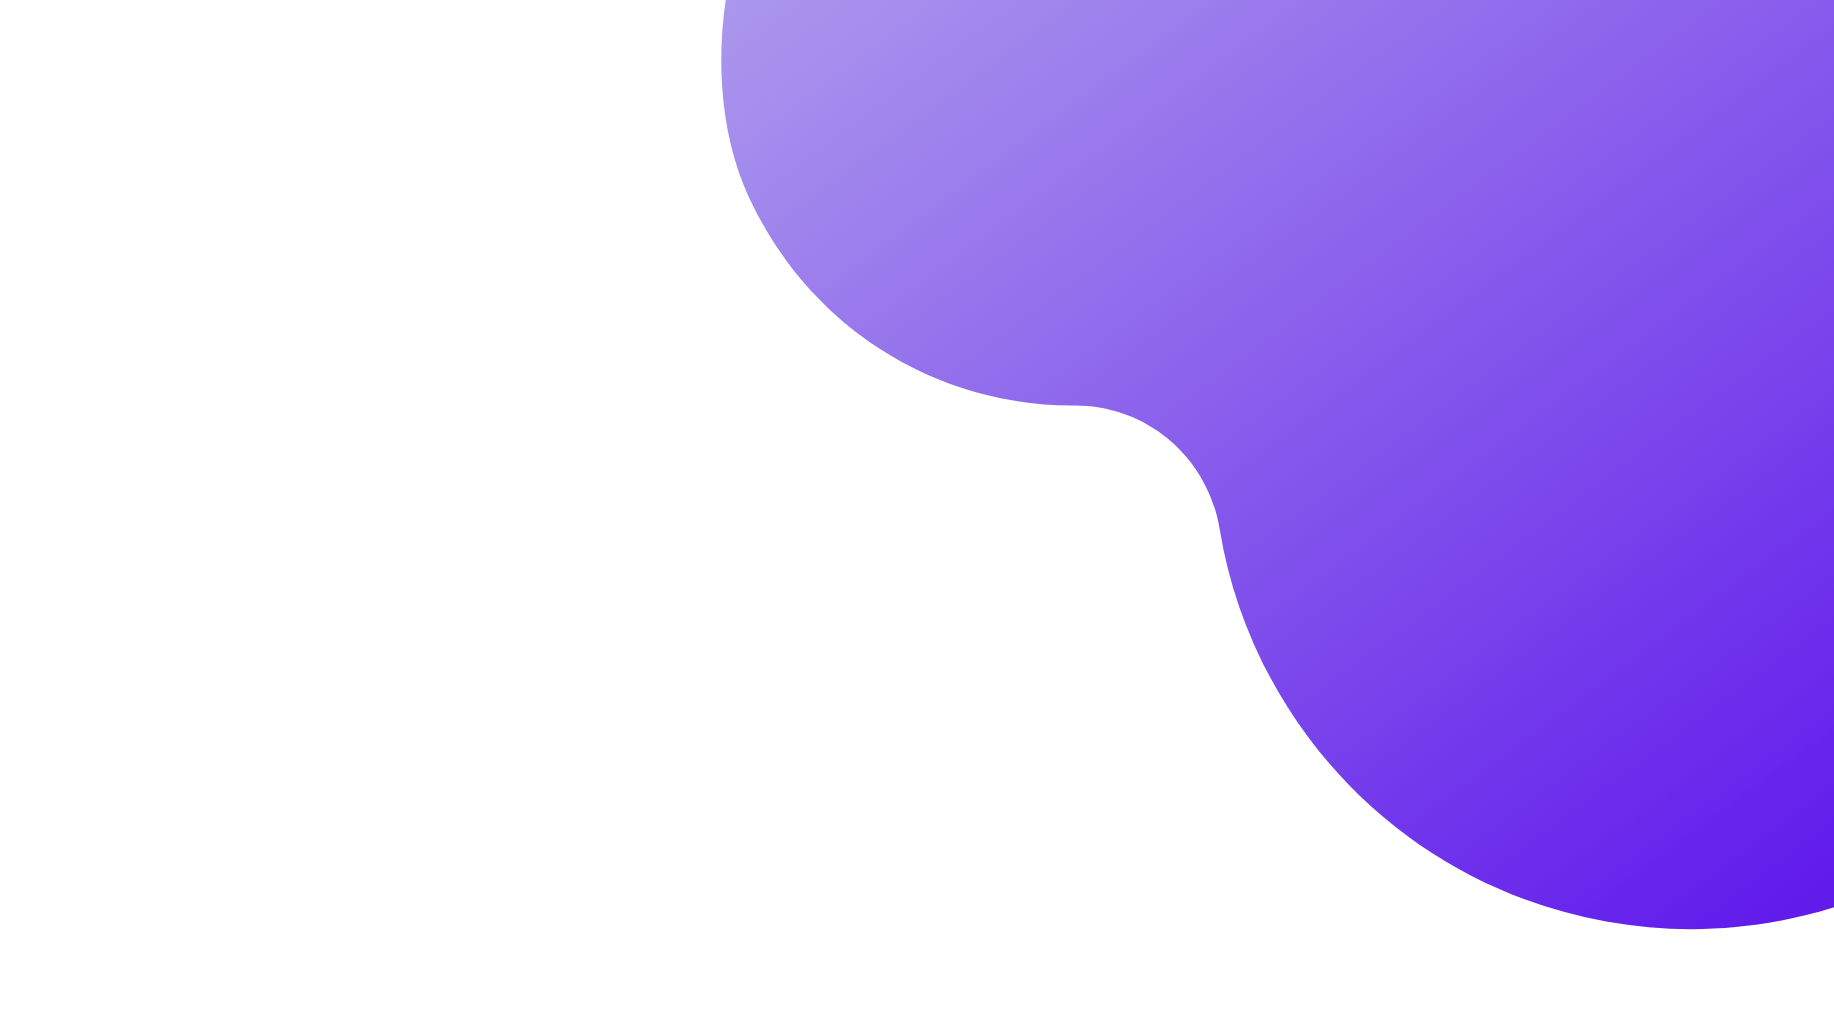
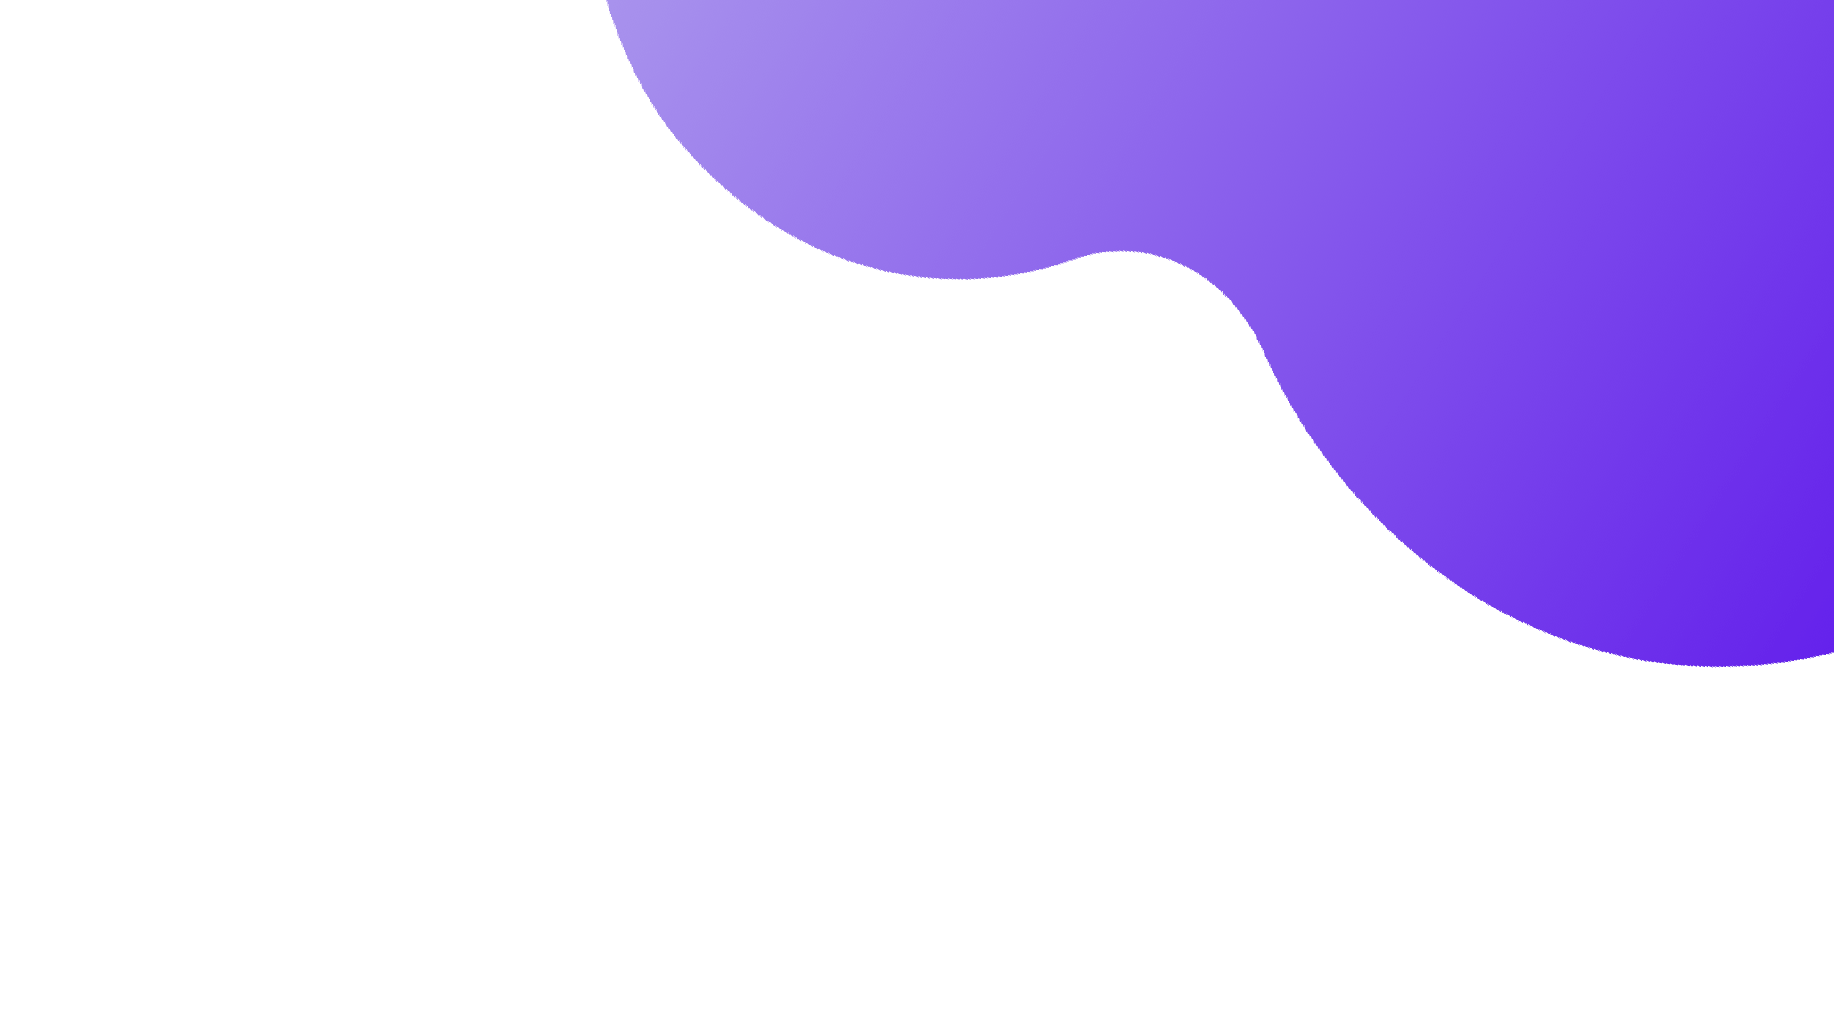
genres-section
started working on genre icons
changed top background

Changed region(s): [[0.404, 0.1857, 1.0, 0.8975], [0.8391, 0.0, 1.0, 0.1547], [0.3108, 0.0, 0.404, 0.1857]]

diff --git a/index.html b/index.html
@@ -113,8 +113,8 @@
         </nav>              
     </header>
      
-    <!-- Main Content Section -->
-    <section>
+    <!-- Top Content Section -->
+    <section class="index-1">
         <div class="container-fluid top-banner">
         <div class="row">
             <div class="col-md-6 my-auto top-banner-left">
@@ -127,6 +127,67 @@
             <img id="top-banner-mockup" src="./assets/images/bookdrops-mock-main-screen.png" alt="Dropbooks main screen example" height="600px">
             </div>
         </div>        
+    </section>
+
+    <!-- 2nd Section showing reading genres -->
+    <section>
+        <div class="container-fluid">
+            <div class="row align-items-center">
+                <!-- Left side containing tablet mockup -->
+                <div class="col-md-6 col-sm-12">TABLET</div>
+                
+                <!-- Right side with genres - on mobile devices this will be on top due to order-sm-1 -->
+                <div class="col-md-6 col-sm-12">
+                    <!-- 1st row with genres -->
+                    <div class="row justify-content-center align-items-center">
+                        <div class="col-sm-2">
+                            <div class="genre-box text-center"><i class="fas fa-heart"></i></div>
+                            <p class="genre-name small">Romance</p>
+                        </div>
+                        <div class="col-sm-2">
+                            <div class="genre-box text-center"><i class="fas fa-heart"></i></div>
+                            <p class="genre-name small">Romance</p>
+                        </div>
+                        <div class="col-sm-2">
+                            <div class="genre-box text-center"><i class="fas fa-heart"></i></div>
+                            <p class="genre-name small">Romance</p>
+                        </div>
+                    </div>
+
+                    <!-- 2nd row with genres -->
+                    <div class="row justify-content-center align-items-center">
+                        <div class="col-sm-2">
+                            <div class="genre-box text-center"><i class="fas fa-heart"></i></div>
+                            <p class="genre-name small">Romance</p>
+                        </div>
+                        <div class="col-sm-2">
+                            <div class="genre-box text-center"><i class="fas fa-heart"></i></div>
+                            <p class="genre-name small">Romance</p>
+                        </div>
+                        <div class="col-sm-2">
+                            <div class="genre-box text-center"><i class="fas fa-heart"></i></div>
+                            <p class="genre-name small">Romance</p>
+                        </div>
+                    </div>
+
+                    <!-- 3rd row with genres -->
+                    <div class="row justify-content-center align-items-center">
+                        <div class="col-sm-2">
+                            <div class="genre-box text-center"><i class="fas fa-heart"></i></div>
+                            <p class="genre-name small">Romance</p>
+                        </div>
+                        <div class="col-sm-2">
+                            <div class="genre-box text-center"><i class="fas fa-heart"></i></div>
+                            <p class="genre-name small">Romance</p>
+                        </div>
+                        <div class="col-sm-2">
+                            <div class="genre-box text-center"><i class="fas fa-heart"></i></div>
+                            <p class="genre-name small">Romance</p>
+                        </div>
+                    </div>
+                </div>
+            </div>
+        </div>
     </section>
 
     <!-- Footer -->

diff --git a/assets/css/style.css b/assets/css/style.css
@@ -66,12 +66,15 @@ nav {
 }
 
 /* :::::::::::::::::::::::::::::::::::::::::: Main */
+section {
+    padding-bottom: 50px;
+}
 .top-banner {
     margin-top: -100px;
     padding-top: 100px;
-    background-image: url("../images/top-gradient.png");
-    background-size: cover;
-    background-position: center top;
+    background-image: url("../images/top-grad.png");
+    background-size: contain;
+    background-position: top right;
     background-attachment: scroll;
     background-repeat: no-repeat;
     overflow: hidden;
@@ -97,6 +100,19 @@ nav {
     margin-left: 20%;
 }
 
+.genre-box {
+    width: 40px;
+    height: 40px;
+    margin: 0;
+    background-color: #c4a6e2;
+    border-radius: 12px;
+}
+
+.genre-box>i {
+    color: rgba(80,38,114,0.5);
+    margin-top: 25%;
+    font-size: 1.4rem;
+}
 
 /* :::::::::::::::::::::::::::::::::::::::::: Footer */
 footer {
